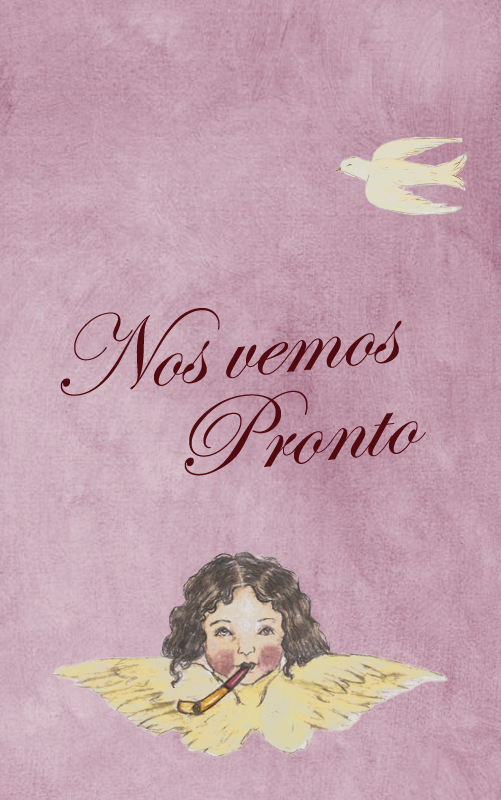
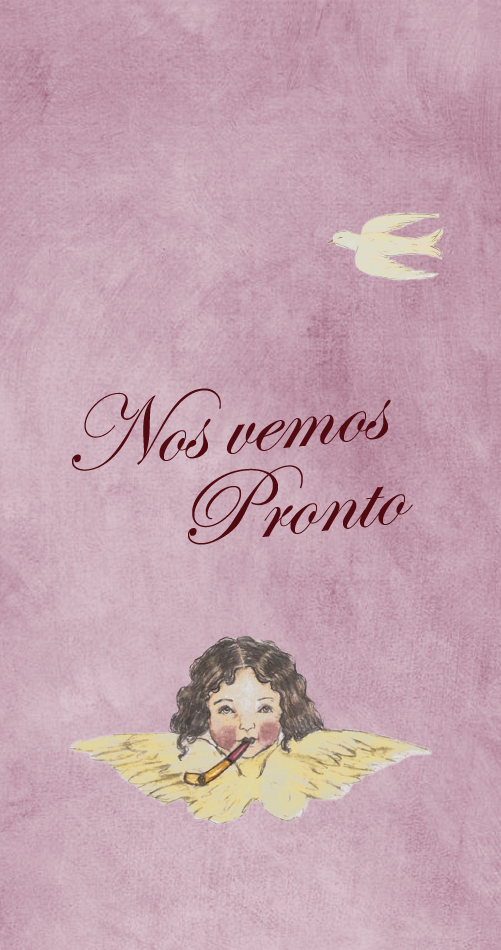
inv fiamma

diff --git a/invitacion-fiamma/styles.css b/invitacion-fiamma/styles.css
@@ -401,7 +401,7 @@ button.clicked {
 }
 
 .imagen-despedida {
-  width: 100vw;
+  width: 100%;
   height: 100%;
 }
 
